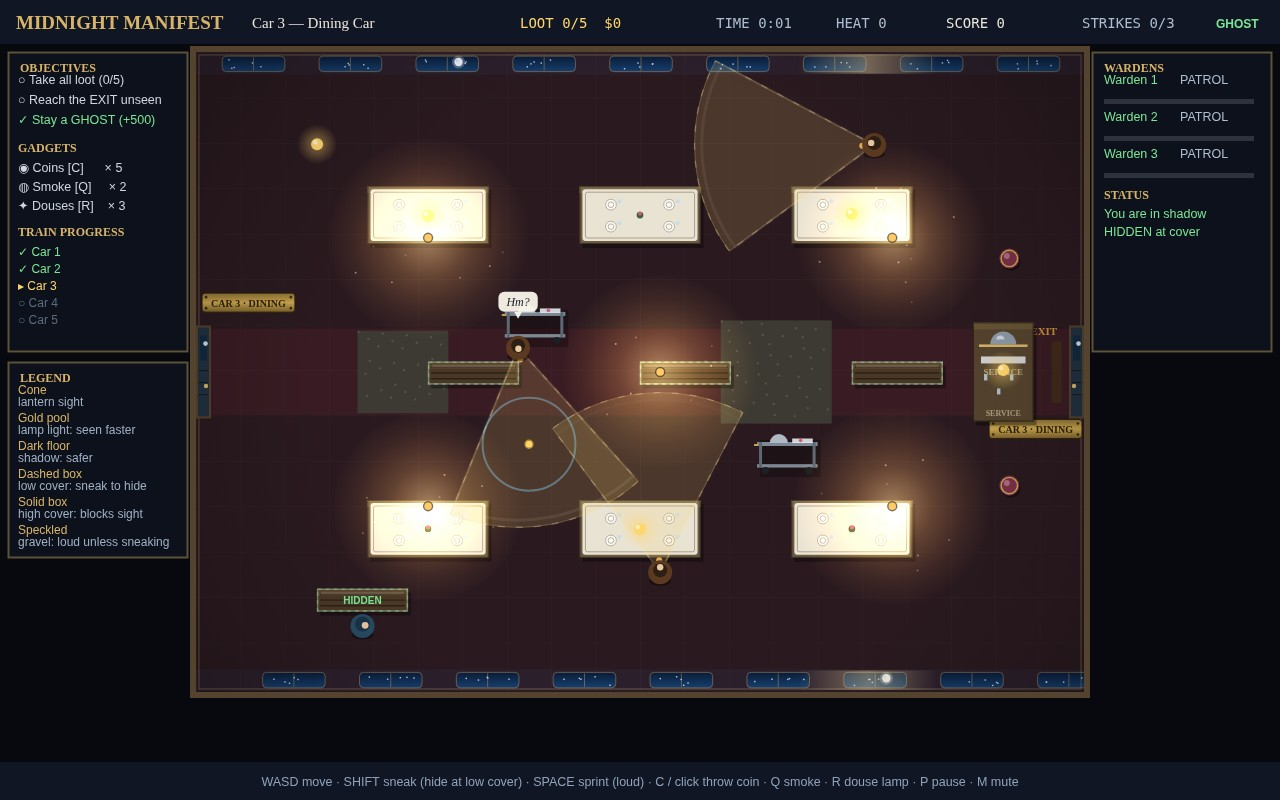
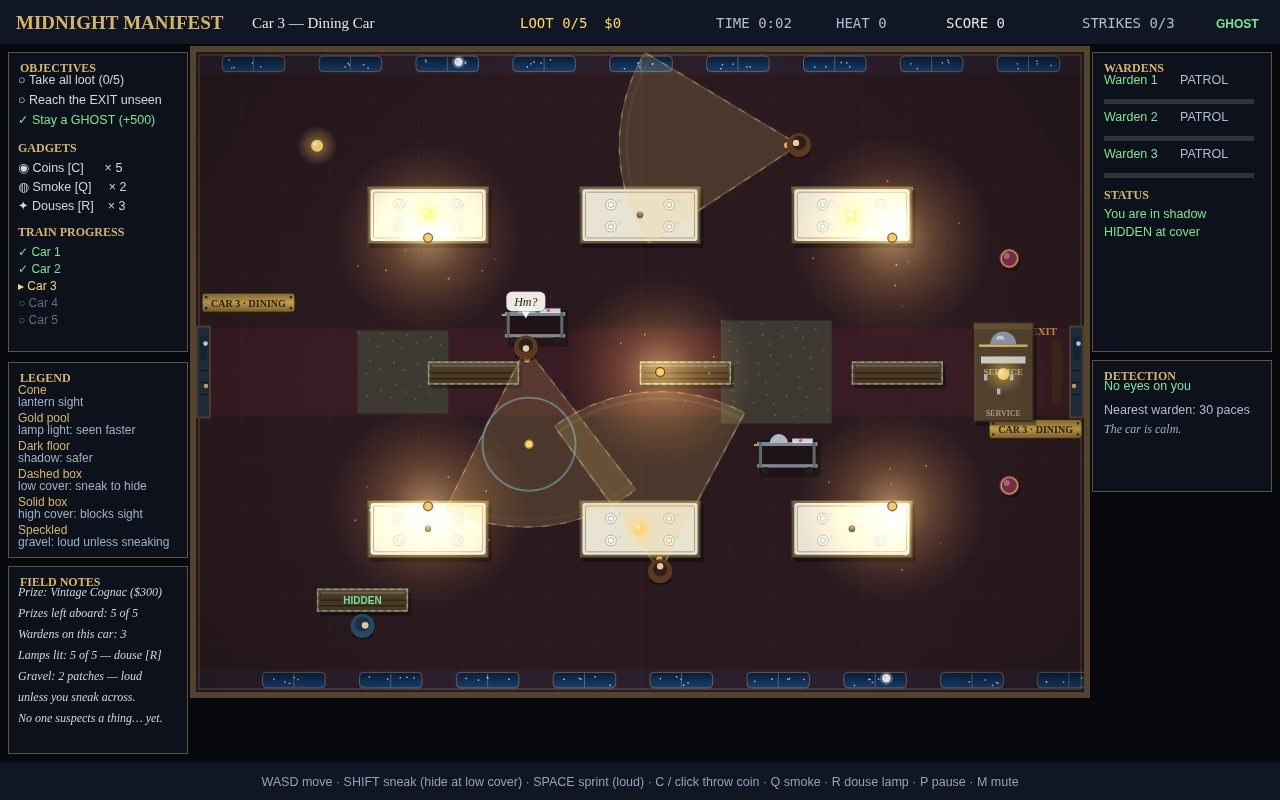
Round 3: Lampblack-style presentation — richer guard callouts (There! / Nothing here. / Must've been the wind…), state-tinted speech bubbles, FIELD NOTES notebook panel per car, DETECTION panel (top threat + nearest warden + live hint); gameplay logic untouched

diff --git a/game/src/render.js b/game/src/render.js
@@ -1098,6 +1098,12 @@ function drawBubble(ctx, g) {
   ctx.beginPath();
   ctx.roundRect(x - w / 2, y - 12, w, 20, 6);
   ctx.fill();
+  ctx.strokeStyle = g.state === 'SPOTTED' ? '#ff5347' : g.state === 'SUSPICIOUS' ? '#ffa53d' : 'rgba(34,37,44,0.35)';
+  ctx.lineWidth = g.state === 'PATROL' ? 1 : 2;
+  ctx.beginPath();
+  ctx.roundRect(x - w / 2, y - 12, w, 20, 6);
+  ctx.stroke();
+  ctx.lineWidth = 1;
   ctx.beginPath();
   ctx.moveTo(x - 4, y + 8); ctx.lineTo(x + 4, y + 8); ctx.lineTo(x, y + 15);
   ctx.closePath(); ctx.fill();
@@ -1223,6 +1229,32 @@ function drawLeftPanel(ctx, game) {
     ctx.fillText(b, 18, ly + 12);
     ly += 28;
   }
+
+  drawFieldNotes(ctx, game);
+}
+
+// The thief's notebook for this car: what is aboard, what to mind, and
+// what the floor will do to your footsteps. Written from live car data.
+function drawFieldNotes(ctx, game) {
+  const { level } = game;
+  panel(ctx, 8, 566, 180, 188, 'FIELD NOTES');
+  ctx.font = 'italic 12px Georgia, serif';
+  ctx.fillStyle = '#cfd6df';
+  let y = 596;
+  const note = (text) => { ctx.fillText(text, 18, y); y += 21; };
+  const topLoot = level.loot.reduce((a, b) => (b.value > (a ? a.value : -1) ? b : a), null);
+  if (topLoot) note(`Prize: ${topLoot.name} ($${topLoot.value})`);
+  note(`Prizes left aboard: ${game.lootLeft} of ${game.lootTotal}`);
+  note(`Wardens on this car: ${game.guards.length}`);
+  const lit = level.lamps.filter((l) => l.on).length;
+  note(`Lamps lit: ${lit} of ${level.lamps.length} — douse [R]`);
+  if (level.gravel && level.gravel.length) {
+    note(`Gravel: ${level.gravel.length} patch${level.gravel.length > 1 ? 'es' : ''} — loud`);
+    note('unless you sneak across.');
+  } else {
+    note('Carpet throughout — soft steps.');
+  }
+  note(game.spottedThisCar ? 'They know a thief is aboard.' : 'No one suspects a thing… yet.');
 }
 
 function drawRightPanel(ctx, game) {
@@ -1251,6 +1283,43 @@ function drawRightPanel(ctx, game) {
   ctx.fillText(game.player.lit ? 'You are LIT' : 'You are in shadow', 1104, y); y += 18;
   ctx.fillStyle = game.player.hidden ? '#7be495' : '#aebdd0';
   ctx.fillText(game.player.hidden ? 'HIDDEN at cover' : game.player.sprinting ? 'Making NOISE' : 'Quiet', 1104, y);
+
+  drawDetection(ctx, game);
+}
+
+// The sharpest eyes on you right now: the most suspicious warden, how
+// close the nearest one walks, and what to do about it.
+function drawDetection(ctx, game) {
+  const p = game.player;
+  panel(ctx, 1092, 360, 180, 132, 'DETECTION');
+  let top = null, nearest = null, nd = Infinity;
+  for (const g of game.guards) {
+    if (!top || g.suspicion > top.suspicion) top = g;
+    const d = Math.hypot(g.x - p.x, g.y - p.y);
+    if (d < nd) { nd = d; nearest = g; }
+  }
+  let y = 390;
+  ctx.font = '12.5px sans-serif';
+  if (top && top.suspicion > 0.02) {
+    ctx.fillStyle = top.suspicion > 0.7 ? '#ff7a5c' : top.suspicion > 0.35 ? '#ffa53d' : '#ffd66e';
+    ctx.fillText(`${top.name} — ${top.state}`, 1104, y); y += 8;
+    ctx.fillStyle = 'rgba(255,255,255,0.14)';
+    ctx.fillRect(1104, y, 150, 7);
+    ctx.fillStyle = top.suspicion > 0.7 ? '#ff5347' : top.suspicion > 0.35 ? '#ffa53d' : '#ffd66e';
+    ctx.fillRect(1104, y, 150 * top.suspicion, 7);
+    y += 24;
+  } else {
+    ctx.fillStyle = '#7be495';
+    ctx.fillText('No eyes on you', 1104, y);
+    y += 24;
+  }
+  ctx.fillStyle = '#aebdd0';
+  ctx.font = '12.5px sans-serif';
+  if (nearest) ctx.fillText(`Nearest warden: ${Math.round(nd / 10)} paces`, 1104, y);
+  y += 19;
+  ctx.fillStyle = top && top.suspicion > 0.7 ? '#ff7a5c' : '#9fb0c3';
+  ctx.font = 'italic 12px Georgia, serif';
+  ctx.fillText(top && top.suspicion > 0.7 ? 'Break line of sight — now!' : top && top.suspicion > 0.35 ? 'Freeze, or slip to shadow.' : 'The car is calm.', 1104, y);
 }
 
 export function formatTime(s) {

diff --git a/game/src/guards.js b/game/src/guards.js
@@ -78,6 +78,7 @@ export class Guard {
     this.bubble = null;
     this.bubbleT = 0;
     this.saidHm = false;
+    this.saidThere = false;
     this.alerted = false; // has fully suspected once: next full meter = SPOTTED
     this.stepT = 0;
   }
@@ -131,10 +132,14 @@ export class Guard {
         this.saidHm = true;
         this.say('Hm?', 1.1);
       }
+      if (this.suspicion > 0.7 && !this.saidThere) {
+        this.saidThere = true;
+        this.say('There!', 0.9);
+      }
       if (dist < 30) this.suspicion = 1; // bumped into the warden's lantern light
     } else {
       this.suspicion -= dt * (this.mode === 'look' ? 0.10 : 0.22);
-      if (this.suspicion < 0.3) this.saidHm = false;
+      if (this.suspicion < 0.3) { this.saidHm = false; this.saidThere = false; }
     }
     this.suspicion = Math.max(0, Math.min(1, this.suspicion));
 
@@ -180,11 +185,13 @@ export class Guard {
         this.mode = 'look';
         this.timer = 2.1;
         this.lookBase = this.angle;
+        if (!this.lastSeen && !this.bubble) this.say('Nothing here.', 1.1);
       }
     } else if (this.mode === 'look') {
       this.timer -= dt;
       this.angle = this.lookBase + Math.sin((2.1 - this.timer) * 2.6) * 0.85;
       if (this.timer <= 0) {
+        if (this.alerted) this.say("Must've been the wind…", 1.8);
         this.mode = 'return';
         this.state = 'PATROL';
         this.alerted = false;
